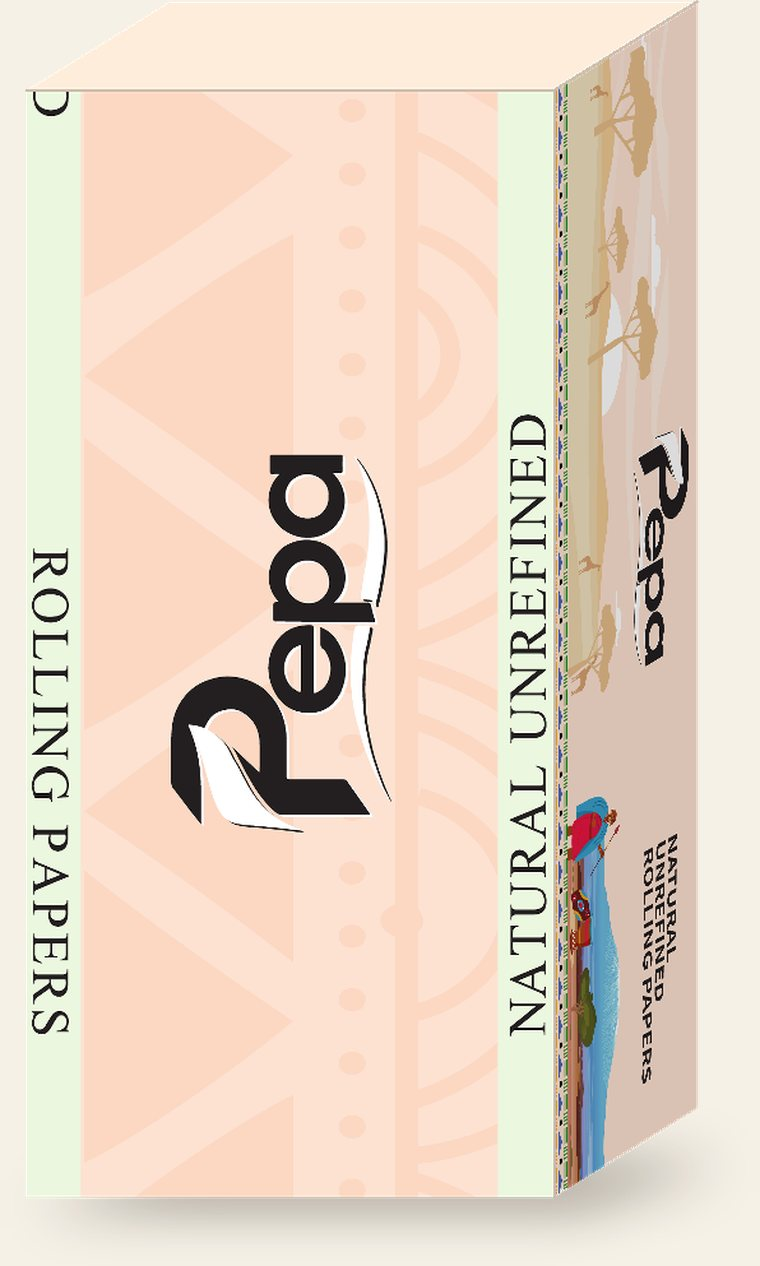
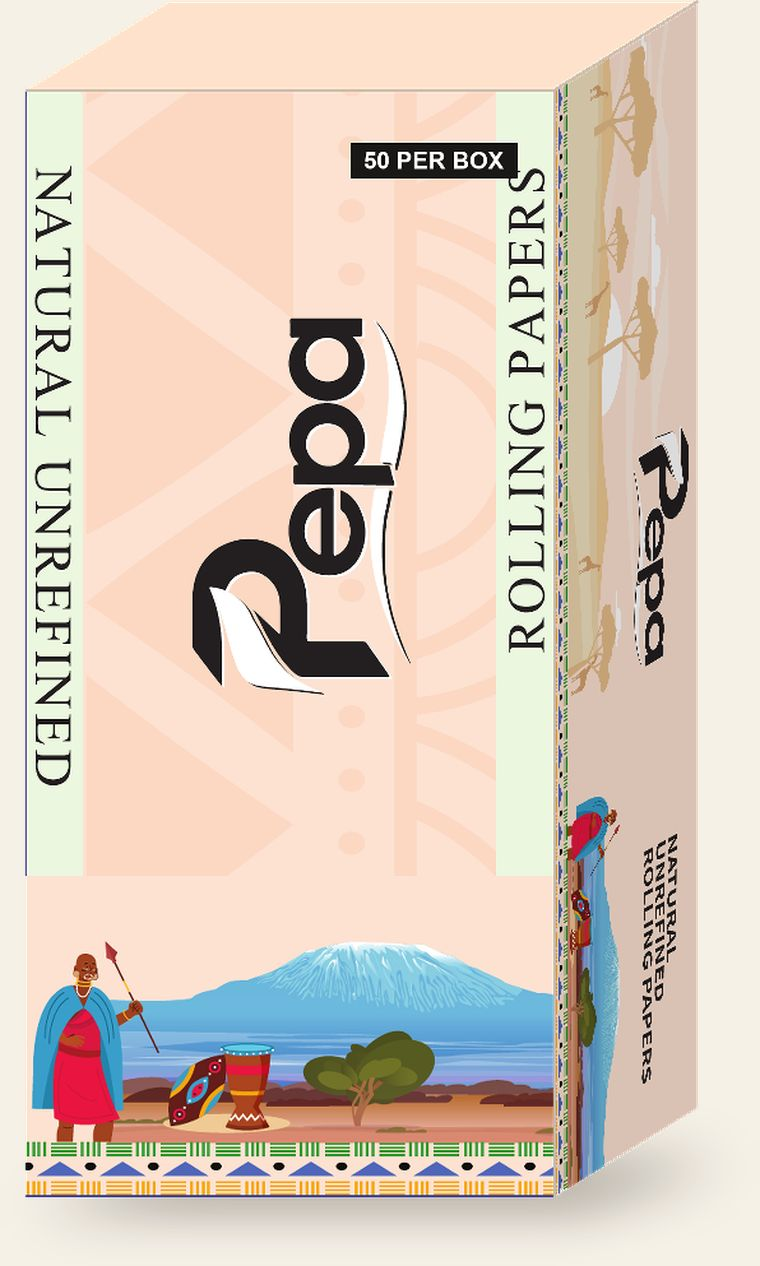
Lay the pack out like the Civlily one, and fix the numbers
The pack front now follows the layout of the Civlily box in his photo:
wordmark reading up the face, the green bands either side, a 50 PER BOX
badge, and the savannah across the bottom with the Maasai, the drums and
Kilimanjaro. Every part of it is lifted out of his own die-line — only
the badge is added, and it states what the pack already holds.

The contact block was ugly for a reason worth naming: a bare phone
number in the page body gets auto-linked by the phone itself, so it came
out underlined in the browser's blue, fighting the buttons under it. The
number now sits inside the button that dials it, and a format-detection
meta stops the phone linking anything of its own. One number, as asked.

The note about the code being the same on every box is gone at his
request. Nothing on the page claimed otherwise anyway — it names the
distributor and the brand, never the individual box.

Changed region(s): [[0.0303, 0.0616, 0.7263, 0.955], [0.2118, 0.2464, 0.5447, 0.6777], [0.4539, 0.0924, 0.7263, 0.5853]]

diff --git a/server/src/services/productPage.service.js b/server/src/services/productPage.service.js
@@ -51,7 +51,7 @@ const DEFAULTS = {
       ],
     },
   ],
-  phones: ['0752828082', '0788734003'],
+  phones: ['0788734003'],
   waText: 'Hello, I want wholesale prices for Pepa.',
 };
 
@@ -165,14 +165,15 @@ function renderHtml(c, { host } = {}) {
   // One number, two ways to reach it. The WhatsApp link arrives with the
   // wholesale question already typed — in this market that prefilled message
   // is worth more than everything else on the page.
+  // The number rides inside the button that dials it. Set loose as a heading,
+  // the phone underlines it in its own blue and the block falls apart.
   const call = phones.map((p) => `
-      <div class="num">
-        <div class="num-n">${esc(p.display)}</div>
-        <div class="num-a">
-          <a class="btn" href="tel:${esc(p.tel)}">Call</a>
-          <a class="btn wa" href="https://wa.me/${esc(p.wa)}?text=${waMsg}">WhatsApp</a>
-        </div>
-      </div>`).join('');
+      <a class="btn" href="tel:${esc(p.tel)}">
+        <span class="btn-k">Call</span><span class="btn-n">${esc(p.display)}</span>
+      </a>
+      <a class="btn wa" href="https://wa.me/${esc(p.wa)}?text=${waMsg}">
+        <span class="btn-k">WhatsApp</span><span class="btn-n">${esc(p.display)}</span>
+      </a>`).join('');
 
   const title = `${c.name} — ${c.tagline}`;
 
@@ -181,6 +182,7 @@ function renderHtml(c, { host } = {}) {
 <head>
 <meta charset="utf-8">
 <meta name="viewport" content="width=device-width, initial-scale=1, viewport-fit=cover">
+<meta name="format-detection" content="telephone=no">
 <title>${esc(title)}</title>
 <meta name="description" content="${esc(`${c.name} — ${c.tagline}. ${c.maker}, ${c.city}. Wholesale: ${phones.map((p) => p.display).join(', ')}`)}">
 <meta property="og:type" content="website">
@@ -207,17 +209,6 @@ ${host ? `<meta property="og:url" content="${esc(`https://${host}/p`)}">` : ''}
       var(--brick) 0 7px,#e0a03c 7px 14px,var(--ink) 14px 21px,#e8dcc2 21px 28px)}
   h2{font-size:12px;letter-spacing:.13em;text-transform:uppercase;color:var(--soft);
     font-weight:700;margin-bottom:12px}
-  .addr{border:1px solid var(--line);border-left:3px solid var(--brick);
-    background:rgba(255,255,255,.5);padding:14px 16px;border-radius:2px}
-  .addr .url{font:700 19px/1.2 ui-monospace,SFMono-Regular,Menlo,Consolas,monospace;
-    color:var(--brick);word-break:break-all}
-  .addr p{margin-top:8px;font-size:14px}
-  .addr .sub{margin-top:4px;font-size:14px}
-  .addr .lead{font-size:16px;font-weight:700}
-  .addr .same{margin-top:12px;padding-top:10px;border-top:1px solid var(--line);
-    font-size:15px;font-weight:600}
-  .addr-url{margin-top:12px;font:600 13px/1.2 ui-monospace,SFMono-Regular,Menlo,Consolas,monospace;
-    color:var(--soft);word-break:break-all}
   /* The box, shot from its own die-line. Bleeds to the full width of the
      page because it is the first thing worth looking at. */
   .shot{display:block;width:66%;max-width:300px;margin:24px auto 4px;height:auto}
@@ -237,16 +228,15 @@ ${host ? `<meta property="og:url" content="${esc(`https://${host}/p`)}">` : ''}
   .tm{margin-top:12px;font-size:13px;color:var(--soft)}
   .mail{margin-top:4px;font-size:16px}
   .mail a{color:var(--brick);text-decoration:none;border-bottom:1px solid currentColor}
-  .nums{margin-top:20px}
-  .num{margin-bottom:18px}
-  .num-n{font:700 26px/1.1 ui-monospace,SFMono-Regular,Menlo,Consolas,monospace;
-    letter-spacing:.02em;margin-bottom:8px}
-  .num-a{display:flex;gap:8px}
-  .btn{flex:1;display:flex;align-items:center;justify-content:center;
-    min-height:56px;padding:0 10px;border:1px solid var(--ink);border-radius:2px;
+  .nums{margin-top:18px}
+  .btn{display:flex;align-items:center;justify-content:space-between;gap:14px;
+    min-height:58px;padding:0 20px;margin-bottom:10px;border-radius:3px;
     background:var(--ink);color:var(--paper);text-decoration:none;
-    font-size:15px;font-weight:700;-webkit-tap-highlight-color:transparent}
-  .btn.wa{background:#128c4a;border-color:#128c4a;color:#fff}
+    -webkit-tap-highlight-color:transparent}
+  .btn-k{font-size:15px;font-weight:700;letter-spacing:.03em}
+  .btn-n{font-size:17px;font-weight:700;font-variant-numeric:tabular-nums;
+    letter-spacing:.02em;opacity:.92}
+  .btn.wa{background:#128c4a;color:#fff}
   footer{margin-top:34px;padding-top:16px;border-top:1px solid var(--line);
     font-size:12px;color:var(--soft)}
   /* Deliberately light in every case, including on a phone set to dark mode.
@@ -264,15 +254,6 @@ ${host ? `<meta property="og:url" content="${esc(`https://${host}/p`)}">` : ''}
   <div class="bead"></div>
 
   ${facts}
-
-  <hr>
-
-  <div class="addr">
-    <p class="lead">The same code is on every box.</p>
-    <p class="sub">It shows the product and who makes it. It does not prove this box.</p>
-    <p class="same">Not sure about a seller or a price? Call us.</p>
-    <p class="addr-url">${esc(host || '')}</p>
-  </div>
 
   <hr>
 

diff --git a/docs/pepa-front-face.py b/docs/pepa-front-face.py
@@ -1,0 +1,45 @@
+"""Compose the Pepa pack front in the layout of the Civlily pack he showed me.
+
+Every element is lifted out of his own die-line: the patterned peach ground
+with its green side bands, the wordmark, and the savannah. The one addition
+is the "50 PER BOX" badge, which the Civlily pack carries and the Pepa
+die-line does not — it states a fact that is already true of the pack.
+"""
+from PIL import Image, ImageDraw, ImageFont
+import sys
+SP = sys.argv[1]
+
+MM = 12                       # px per mm
+FW, FH = 74 * MM, 155 * MM    # the front face, 888 x 1860
+
+page = Image.open(SP + "/die/page-1.png").convert("RGB")
+
+# Ground: the front panel exactly as the die-line draws it — 74 x 155 mm
+# between its own fold lines, so the green side bands keep their full-height
+# text instead of being clipped mid-word. The wordmark already sits high on
+# the panel, where the Civlily wordmark sits.
+ground = page.crop((1396, 786, 2271, 2616)).resize((FW, FH), Image.LANCZOS)
+face = ground.copy()
+
+# The savannah, scaled to fill the bottom band and cropped to the stretch that
+# carries the Maasai, the drums and Kilimanjaro — Civlily's framing.
+# Cropped below y=240 so the bold "ROLLING PAPERS" line that sits in the
+# strip's sky stays out of the band — it is set separately on the face.
+BAND = 45 * MM
+strip = page.crop((830, 786, 1396, 2616)).rotate(90, expand=True)
+scene = strip.crop((1199, 240, 1735, 566)).resize((FW, BAND), Image.LANCZOS)
+face.paste(scene, (0, FH - BAND))
+
+d = ImageDraw.Draw(face)
+
+# "50 PER BOX", top right.
+font = ImageFont.truetype("/System/Library/Fonts/Supplemental/Arial Bold.ttf", 40)
+label = "50 PER BOX"
+tw = d.textbbox((0, 0), label, font=font)
+bw, bh = tw[2] - tw[0] + 44, tw[3] - tw[1] + 30
+bx, by = FW - bw - 62, 88
+d.rectangle([bx, by, bx + bw, by + bh], fill=(26, 24, 22))
+d.text((bx + 22 - tw[0], by + 15 - tw[1]), label, font=font, fill=(255, 255, 255))
+
+face.save(SP + "/die/pepa-front.png")
+print("front face:", face.size)

diff --git a/docs/pepa-box-mockup.py b/docs/pepa-box-mockup.py
@@ -69,7 +69,7 @@ ImageDraw.Draw(sh).polygon(
     fill=(58, 38, 22, 115))
 canvas.alpha_composite(sh.filter(ImageFilter.GaussianBlur(20)))
 
-front = Image.open(SP + "/die/f-front.png")   # wordmark panel, 74 x 155
+front = Image.open(SP + "/die/pepa-front.png") # composed front, 74 x 155
 side  = Image.open(SP + "/die/f-side.png")    # savannah strip,  48 x 155
 top   = Image.new("RGB", (64, 64), front.convert("RGB").getpixel((430, 60)))
 
